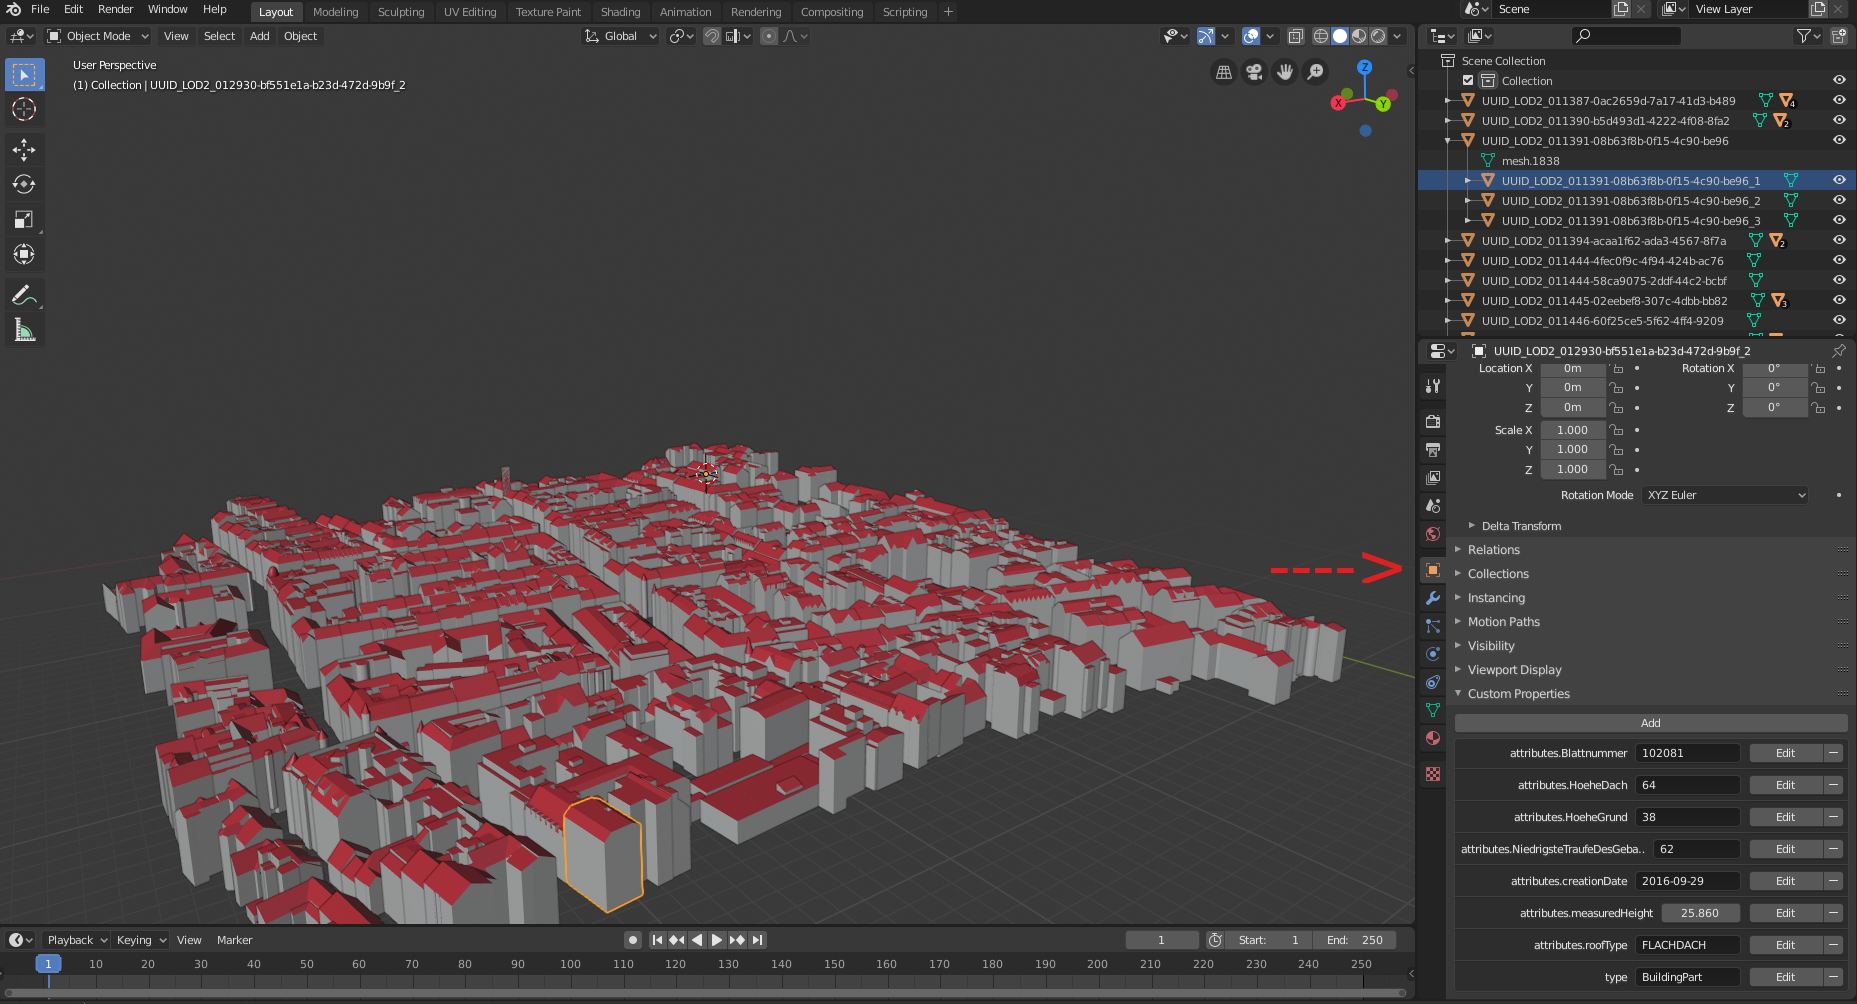
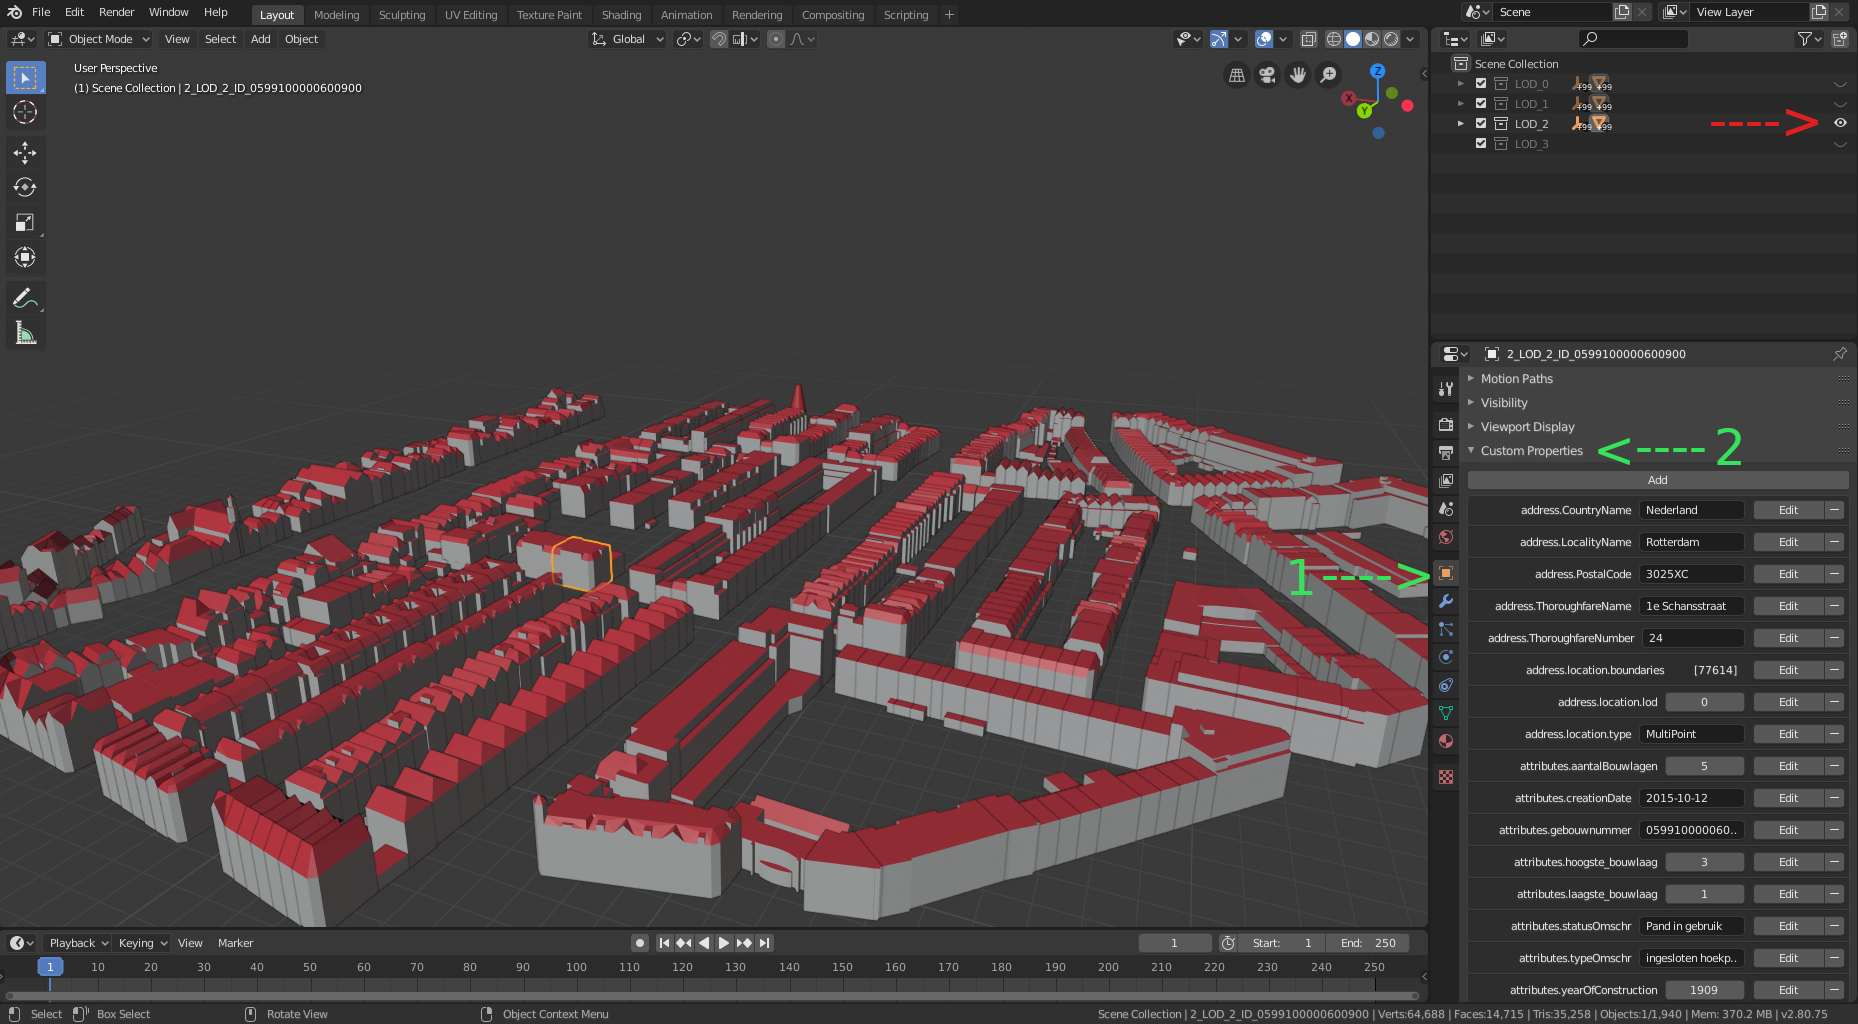
CityJSON parser beta version

diff --git a/CityJSON_Blender_parser.py b/CityJSON_Blender_parser.py
@@ -9,15 +9,13 @@ bl_info = {
     "wiki_url": "",
     "category": "Import-Export",
 }
-import time
+
 import bpy
 import json
-import random
+import time
 from bpy_extras.io_utils import ImportHelper, ExportHelper
 from bpy.props import StringProperty, BoolProperty, EnumProperty
 from bpy.types import Operator
-
-
 
 def clean_list(values):
     #Creates a list of non list in case lists nested in lists exist
@@ -28,16 +26,12 @@ def clean_list(values):
 def assign_properties(obj, props, prefix=[]):
     #Assigns the custom properties to obj based on the props
     for prop, value in props.items():
-        
         if prop in ["geometry", "children", "parents"]:
             continue
-
         if isinstance(value, dict):
             obj = assign_properties(obj, value, prefix + [prop])
-        
         else:
             obj[".".join(prefix + [prop])] = value
-
     return obj
 
 def coord_translate_axis_origin(vertices):
@@ -53,7 +47,6 @@ def coord_translate_axis_origin(vertices):
     translated_z = [i[2]-minz for i in vertices]
     
     return (tuple(zip(translated_x,translated_y,translated_z)),minx,miny,minz)
-
 
 def original_coordinates(vertices,minx,miny,minz):
     #Translating back to original coords 
@@ -71,12 +64,10 @@ def clean_buffer(vertices, bounds):
     i=0
     for bound in bounds:
         new_bound = list()
-        
         for j in range(len(bound)):
             new_vertices.append(vertices[bound[j]])
             new_bound.append(i)
             i=i+1
-        
         new_bounds.append(tuple(new_bound))
     
     return new_vertices, new_bounds
@@ -88,30 +79,62 @@ def write_cityjson(context, filepath):
     
     return {'FINISHED'}
 
+def clean_previous_import():
+    #Deleting previous objects every time a new CityJSON file is imported
+    bpy.ops.object.select_all(action='SELECT')
+    bpy.ops.object.delete()
+    #Deleting previously existing collections
+    for collection in bpy.data.collections:
+        bpy.data.collections.remove(collection)
+    
+    return 0
+
+def create_lod_collections():
+    # Creating 4 new collections for storing different LODs
+    lod_list = [bpy.data.collections.new("LOD_"+ str(lod)) for lod in range (4)]
+    for lod in lod_list:
+        bpy.context.scene.collection.children.link(lod)
+        
+    return lod_list
+    
+        
+def transform_coords(data):
+    vertices=list()
+    #Checking if coordinates need to be transformed and transforming if necessary 
+    if 'transform' not in data:
+        for vertex in data['vertices']:
+            vertices.append(tuple(vertex))
+    else:
+        trans_param = data['transform']
+        #Transforming coords to actual real world coords
+        for vertex in data['vertices']:
+            x=vertex[0]*trans_param['scale'][0]+trans_param['translate'][0]
+            y=vertex[1]*trans_param['scale'][1]+trans_param['translate'][1]
+            z=vertex[2]*trans_param['scale'][2]+trans_param['translate'][2]
+            vertices.append((x,y,z))
+    
+    return vertices
+
 def geometry_renderer(data,vertices,theid,index):
     #Parsing the boundary data of every geometry
     bound=list()                
-    
     geom = data['CityObjects'][theid]['geometry'][index]
     if 'lod' in geom:
-        prefix = "LOD_" + str(geom['lod'])
+        prefix = str(index)+"_LOD_" + str(geom['lod'])
     else:
-        prefix = "no_LOD_"+str(index)
+        prefix = str(index)+"_no_LOD_"+str(index)
     
-    #Checking how nested the geometry is i.e what kind of 3D geometry it contains
+    #Parsing 3D geometry of CityObjects
     if((geom['type']=='MultiSurface') or (geom['type'] == 'CompositeSurface')):
-    
         for face in geom['boundaries']:
             # This if - else statement ignores all the holes if any in any geometry
             if len(face)>0:
                 bound.append(tuple(face[0]))
-        
     elif (geom['type']=='Solid'):
         for shell in geom['boundaries']:
             for face in shell:
                 if (len(face)>0):
                     bound.append(tuple(face[0]))
-                                                    
     elif (geom['type']=='MultiSolid'):
         for solid in geom['boundaries']:
             for shell in solid:
@@ -127,88 +150,81 @@ def geometry_renderer(data,vertices,theid,index):
     mesh_data.from_pydata(temp_vertices, [], temp_bound)
     mesh_data.update()    
     geom_obj = bpy.data.objects.new(geometryname, mesh_data)
-    scene = bpy.context.scene
-    scene.collection.objects.link(geom_obj)
-    
+
     #Assigning attributes to geometries
     geom_obj = assign_properties(geom_obj, data["CityObjects"][theid])
 
     #Assigning semantics to every face of every geometry         
     if 'semantics' in geom:
         values = geom['semantics']['values']
-        
         for surface in geom['semantics']['surfaces']:
             mat = bpy.data.materials.new(name="Material")
             assign_properties(mat, surface)                   
             #Assigning materials on each object
             geom_obj.data.materials.append(mat)
-            
             #Assign color based on surface type            
             if surface['type'] =='WallSurface':
                 mat.diffuse_color = (0.8,0.8,0.8,1)                            
             elif surface['type'] =='RoofSurface':
                 mat.diffuse_color = (0.9,0.057,0.086,1)                                       
             elif surface['type'] =='GroundSurface':
-                mat.diffuse_color = (0.507,0.233,0.036,1)                            
+                mat.diffuse_color = (0.507,0.233,0.036,1)
+            elif surface['type'] == 'WaterGroundSurface':
+                mat.diffuse_color = (0.107,0.586,0.8,1)
+            elif surface['type'] == 'WaterSurface':
+                mat.diffuse_color = (0.107,0.586,0.8,1)
             else:
                 mat.diffuse_color = (0,0,0,1)
         geom_obj.data.update()                       
         values = clean_list(values)
-        
+        #Assigning materials (semantics) to object's faces
         i=0        
         for face in geom_obj.data.polygons:
             face.material_index = values[i]
             i+=1
 
     return geom_obj
-
-def cityjson_parser(context, filepath):
-    print("Importing CityJSON file...")
-    #Deleting previous objects every time a new CityJSON file is imported
-    bpy.ops.object.select_all(action="SELECT")
-    bpy.ops.object.delete(use_global=True)
             
+def cityjson_parser(context, filepath):
+    print ("\nDeleting existing scene objects...")
+    clean_previous_import()
+    print("\nImporting CityJSON file...")
+    
     #Read CityJSON file
     with open(filepath) as json_file:
         data = json.load(json_file)
-        vertices=list() 
-           
-        #Checking if coordinates need to be transformed and transforming if necessary 
-        if 'transform' not in data:
-            for vertex in data['vertices']:
-                vertices.append(tuple(vertex))
-        else:
-            trans_param = data['transform']
-            #Transforming coords to actual real world coords
-            for vertex in data['vertices']:
-                x=vertex[0]*trans_param['scale'][0]+trans_param['translate'][0]
-                y=vertex[1]*trans_param['scale'][1]+trans_param['translate'][1]
-                z=vertex[2]*trans_param['scale'][2]+trans_param['translate'][2]
-                vertices.append((x,y,z))
-        
+        print ("'"+filepath+"'" + " succesfully loaded!\n")
+        vertices = transform_coords(data)
+                
         #Translating coordinates to the axis origin
         translation = coord_translate_axis_origin(vertices)
-        
         #Updating vertices with new translated vertices
         vertices = translation[0]
-                
+          
+        lod_list = create_lod_collections()
+                    
         progress_max = len(data['CityObjects'])        
         progress = 0
-        start_render = time.time()
+        start_visual = time.time()
         #Creating empty meshes for every CityObjects and linking its geometries as children-meshes
         for theid in data['CityObjects']:
             cityobject = bpy.data.objects.new(theid, None)
             cityobject = assign_properties(cityobject, data["CityObjects"][theid])
-            scene = bpy.context.scene
-            scene.collection.objects.link(cityobject)
-                        
             for i in range(len(data['CityObjects'][theid]['geometry'])):
-                geom_obj = geometry_renderer(data,vertices,theid,i)
-                geom_obj.parent = cityobject
+                if 'lod' in data['CityObjects'][theid]['geometry'][i]: # This handles templates (ignores them for now)
+                    ind = data['CityObjects'][theid]['geometry'][i]['lod']
+                    #The next if statement checks if the parent empty object already exists in the collection.
+                    #This is necessary when there are more than 1 geometries with the same LOD!
+                    if theid not in bpy.data.collections['LOD_2'].objects:
+                        lod_list[ind].objects.link(cityobject)
+                    geom_obj = geometry_renderer(data,vertices,theid,i)
+                    geom_obj.parent = cityobject
+                    lod_list[ind].objects.link(geom_obj)
             progress+=1
-            
-            print ("Rendering: " + str(round(progress*100/progress_max, 1))+"% completed", end="\r")    
-        end_render = time.time()
+            print ("Visualizing city objects: " + str(round (progress*100/progress_max))+"% completed",end="\r") 
+        
+        print ("\n")   
+        end_visual = time.time()
                 
         progress = 0
         start_hier = time.time()
@@ -217,14 +233,14 @@ def cityjson_parser(context, filepath):
             if 'parents' in data['CityObjects'][theid]:
                 bpy.data.objects[theid].parent = bpy.data.objects[data['CityObjects'][theid]['parents'][0]]
             progress+=1
-            print ("Building Hierarchy " + str(round(progress*100/progress_max, 1))+"% completed",end="\r")
+            print ("Building Hierarchy: " + str(round(progress*100/progress_max))+"% completed",end="\r")
         end_hier= time.time()
         
-        #Console output
+        #Summary console output
         print ("\n")
-        print("CityJSON file successfully imported!\n")
-        print ("Total Rendering Time: ", round(end_render-start_render,2),"s")
-        print ("Building Hierarchy: ", round(end_hier-start_hier,2),"s")
+        print ("Visualization completed in", round(end_visual-start_visual),"second(s)!")
+        print ("Hierarchy completed in", round(end_hier-start_hier),"second(s)!")
+        print("\nCityJSON file successfully imported!\n")
         
     return {'FINISHED'}
 

diff --git a/Readme.md b/Readme.md
@@ -1,6 +1,6 @@
 # Blender-CityJSON-Plugin
 
-A Blender plugin to import 3D city models encoded in the [CityJSON](http://cityjson.org) format.
+A Blender plugin to import 3D city models encoded in the [CityJSON](http://cityjson.org) format. All building attributes and faces semantics are stored and can be accesed via Blender's graphic user interface.
 
 ## Requirements
 
@@ -8,31 +8,33 @@ A Blender plugin to import 3D city models encoded in the [CityJSON](http://cityj
 
 ## Testing Datasets
 
-You can find sample datasets at the official [CityJSON](https://www.cityjson.org/datasets/#datasets-converted-from-citygml) website. For the `New York` ,`Zurich` and `Railway`, the plugin will most probably crash due to the very big size of the first two datasets and to the templates structure of the last which is not yet supported by the plugin. 
+You can find sample datasets at the official [CityJSON](https://www.cityjson.org/datasets/#datasets-converted-from-citygml) website. In case you have 3D City Model datasets encoded in CityGML you can use the free [Conversion Tool](https://www.cityjson.org/help/users/conversion/) to convert to and from CityGML and CityJSON.
 
-For the rest sample CityJSON files everything should work smoothly. Depending on your machine it could take some seconds up to a minute to import the model. 
+Trying to import really big datasets such as `New York` will take several minutes because of the amount of information contained. With the rest sample CityJSON files everything should work noticeably faster. Depending on your machine, it could take some seconds up to few minutes minute to import the 3D City Model. 
 
 ## How to install and use the parser
 
-1. Download the `CityJSON_Blender_parser.py` add-on, and install it locally to Blender. Menu `Edit > Preferences >Add-ons`, and `Install`. 
+1. Download the `CityJSON_Blender_parser.py` add-on and install it locally to Blender. Menu `Edit > Preferences >Add-ons`, and `Install`. 
 
 2. Make sure the add-on is enabled (by default it is disabled).
 
 3. Go to `File > Import > CityJSON` and navigate to the directory where the CityJSON file is stored and open it.
 
-4. If you want to visualize a certain area, click `Shift + B` and draw a rectangle with your mouse to zoom in into that specific area of the dataset.
+4. In case you run `Blender` through the console, useful feedback is given in it, informing about the progress of the import procedure. 
 
-5. To select all the children of a building right click on the building's (parent's) ID and click `Select Hierarchy`
+5. After a successful import, you should be able to see the model somewhere close to the axis origin. Rotation of the scene and zooming in and out might prove useful at this point, to locate the model.
 
-6. To see the properties of each object simply select the object and click on the `Context.Object` tab on the bottom right (Blender 2.80 interface). Then click the `Custom Properties` drop down menu. (See the screenshot below!)
+6. For different `Collections` are created for `LoD 0 to 3` respectively. In case more than 1 geometries exist for the objects -representing different `LODs` (level of detail)-, every geometry is stored under the appropriate `Collection`, under the parent object (if there is any). You can display different `Collections` by clicking on the `eye icon` in the `Outliner` at the top right of the interface (see screenshot below). By default all the `LOD_x` collections should be visible right after importing the 3D City Model. In case you see any artefacts that is the reason! Choosing only one visible collection should remove all artefacts. 
 
-7. To see the semantics of each surface select an object in `Object Mode` then hit `TAB` to enter `Edit Mode` and click `Face Select` (top left of the viewport next to the `View` button). Then click on the `Context.Material` tab at the bottom right. Then scroll down and click on the `Custom Properties`. (See the screenshot below!)
+7. In case you want to visualize a certain area, click `Shift + B` and draw a rectangle with your mouse to zoom into that specific area of the 3D City Model. This also moves the rotation center at that poin, which will come handy when you want to rotate the model for further inspection.
 
-8. In case more than one geometries exist for the objects, for every geometry a new `Scene` is created and the objects represented in that geometry are rendered into that `Scene`. You can alternate among different `Scenes` by clicking on the scene browser on the top right of the interface. (See the screenshot below!) 
+8. To see the attributes of each object, simply select the object on the screen and click on the `Context.Object` tab on the bottom right (Blender 2.80 interface). Then click `Custom Properties` drop down menu (see screenshot below).
+
+9. To see the semantics of each surface, select an object in `Object Mode`, hit `TAB` to toggle `Edit Mode` and click `Face Select` (top left of the viewport between the `Edit Mode` and the `View` button). Select a face of the object and click on the `Context.Material` tab at the bottom right. Scroll down and click on `Custom Properties`(see screenshot below).
+
 
 ![](attributes.png) 
 ![](semantics.png)
-![](scenes.png)
 
 
 ## Development
@@ -44,3 +46,5 @@ If you are using Visual Studio Code, you may:
 - Install [Blender Development](jacqueslucke.blender-development
 ): a plugin that allows starting and debugging Python scripts from VSC.
 - Install the [fake-bpy-module](https://github.com/nutti/fake-bpy-module) to enable auto-completion: `pip install fake-bpy-module-2.80`.
+
+
